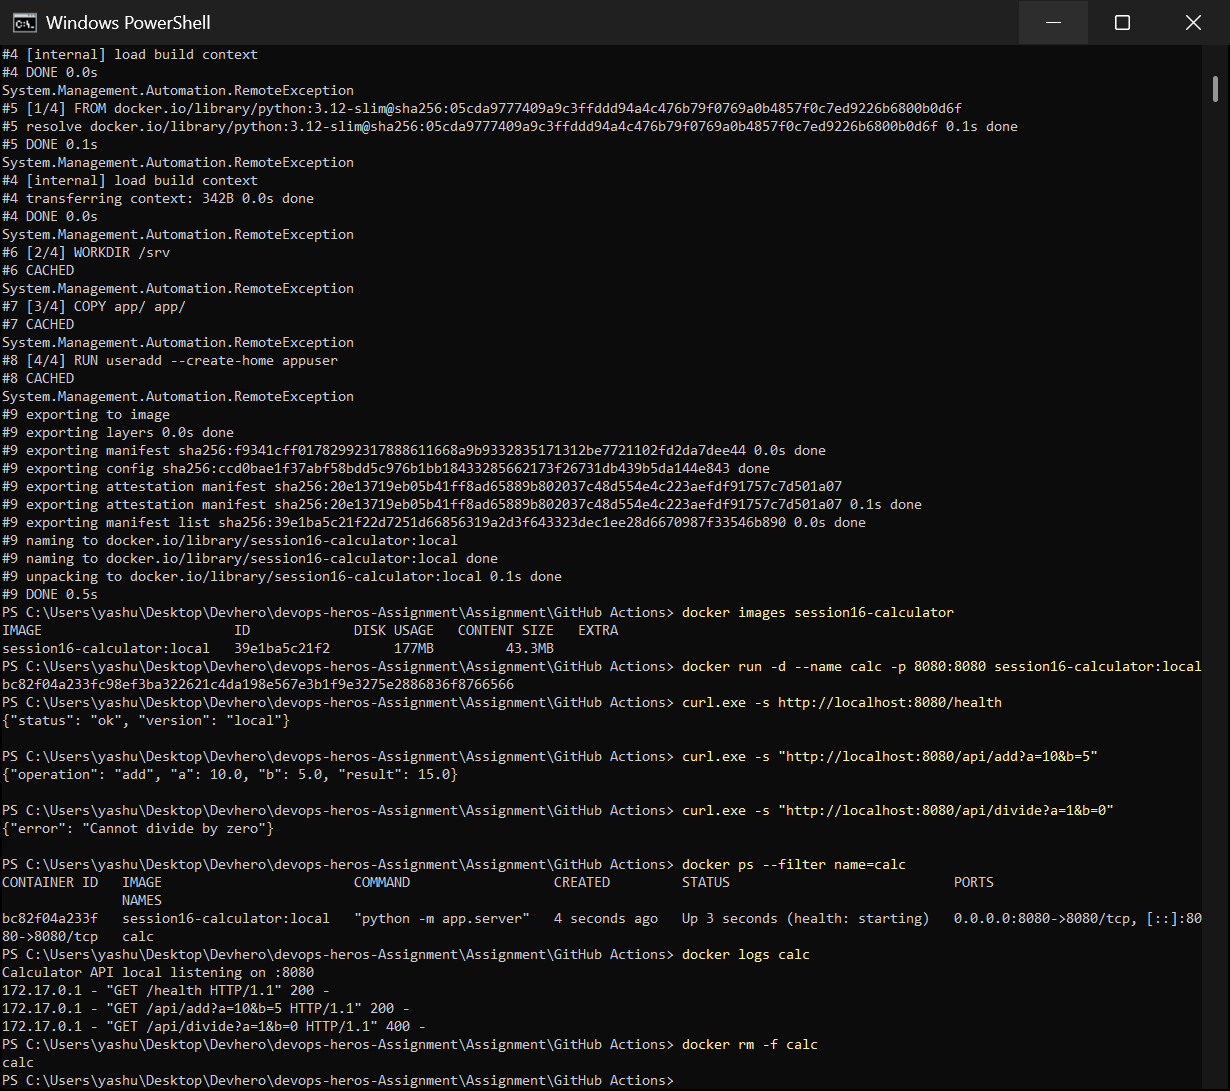
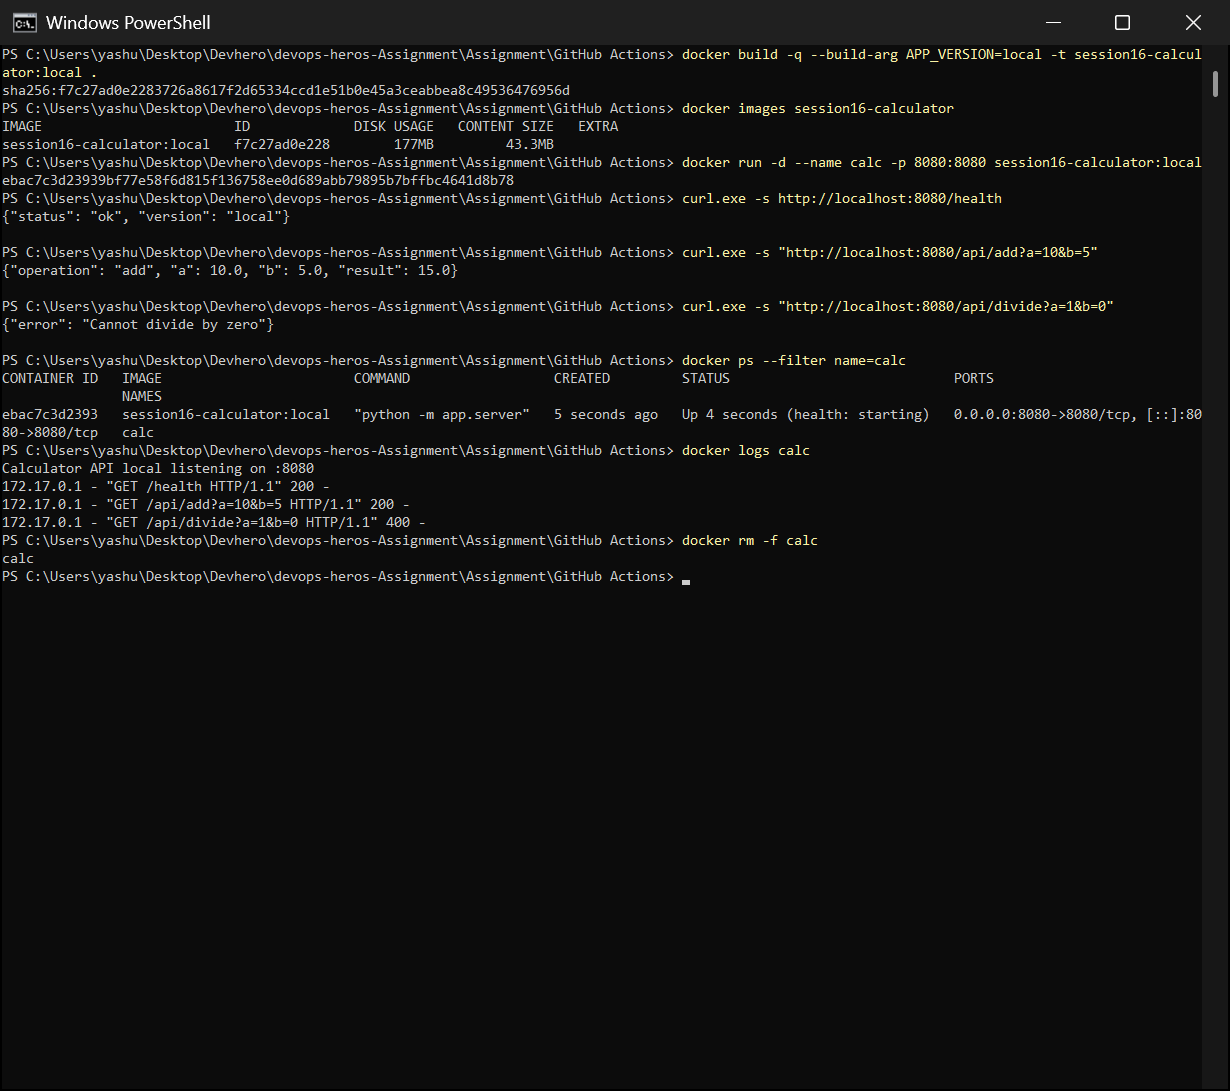
Session 16: add README and pipeline screenshots

diff --git a/Assignment/GitHub Actions/README.md b/Assignment/GitHub Actions/README.md
@@ -1,0 +1,196 @@
+# Session 16 – CI/CD with GitHub Actions
+
+A complete CI/CD demo project built on the course's [`10-final-cicd-pipeline`](../../session-16-github-actions/session-16-github-actions/10-final-cicd-pipeline). It's a small **Python calculator web API** that GitHub Actions automatically **tests, scans, builds, packages as a Docker image, pushes to a container registry, and deploys to Kubernetes** on every push.
+
+- **Workflow file:** [`.github/workflows/session16-cicd.yml`](../../.github/workflows/session16-cicd.yml)
+- **Successful run:** [Actions run #1](https://github.com/Yashukiran/devops-heros/actions/runs/37511470127). All 5 jobs green, total 2m 3s.
+- **Published image:** `ghcr.io/yashukiran/session16-calculator`
+
+---
+
+## Project Structure
+
+```text
+Assignment/GitHub Actions/
+├── app/
+│   ├── calculator.py     # add / subtract / multiply / divide
+│   └── server.py         # HTTP API: /health, /api/<op>?a=&b=   (standard library only)
+├── tests/
+│   ├── test_calculator.py   # unit tests
+│   └── test_server.py       # API tests (starts the server on a random port)
+├── k8s/
+│   ├── deployment.yaml   # 2 replicas, readiness/liveness probes, resource limits
+│   └── service.yaml
+├── Dockerfile            # python:3.12-slim, non-root user, HEALTHCHECK
+├── build.sh              # creates build/ + build-info.txt (the build artifact)
+├── requirements.txt      # pytest
+└── pytest.ini
+
+.github/workflows/session16-cicd.yml   # (at the repo root – GitHub only reads workflows from there)
+```
+
+### The application
+
+```bash
+GET /health                 -> {"status": "ok", "version": "<git sha>"}
+GET /api/add?a=10&b=5       -> {"operation": "add", "a": 10.0, "b": 5.0, "result": 15.0}
+GET /api/divide?a=1&b=0     -> 400 {"error": "Cannot divide by zero"}
+```
+
+---
+
+## CI vs CD
+
+| | **CI – Continuous Integration** | **CD – Continuous Delivery / Deployment** |
+|---|---|---|
+| Goal | Every change is automatically **built and tested** | Every change that passed CI is automatically **packaged and released/deployed** |
+| Answers | "Is this commit correct?" | "Can (and does) this commit run in an environment?" |
+| In this project | `test`, `security-check`, `build` jobs | `docker` (build + push image), `deploy` (to Kubernetes) jobs |
+
+*Continuous **Delivery** = always ready to deploy (maybe with a manual approval). Continuous **Deployment** = every green commit deploys automatically. This pipeline does automatic deployment to a `dev` environment.*
+
+---
+
+## The Pipeline
+
+```text
+                    push to "Assignment" (Assignment/GitHub Actions/**)
+                                       │
+               ┌───────────────────────┴───────────────────────┐
+               ▼                                               ▼
+        ┌──────────────┐                              ┌────────────────┐
+        │     test     │  pytest (9 tests)            │ security-check │  secret files? secrets usage
+        └──────┬───────┘                              └───────┬────────┘
+       ┌───────┴────────────────────┐                         │
+       ▼                            ▼                         │
+┌──────────────┐            ┌────────────────┐ ◄──────────────┘
+│    build     │ artifact   │     docker     │  build → smoke test → save artifact → push to GHCR
+└──────┬───────┘            └───────┬────────┘
+       └──────────┬─────────────────┘
+                  ▼
+          ┌───────────────┐
+          │    deploy     │  kind cluster → load image → kubectl apply → rollout → curl
+          └───────────────┘   (environment: dev)
+```
+
+| GitHub Actions concept | Where it is used here |
+|---|---|
+| **Workflow** | `session16-cicd.yml`. Triggers: `push` and `pull_request` to `Assignment` (only when this folder changes) plus manual `workflow_dispatch` |
+| **Jobs** | `test`, `security-check`, `build`, `docker`, `deploy`. Jobs run in parallel unless linked with `needs:` |
+| **Steps** | Each job's ordered list of `uses:` (a reusable action) or `run:` (shell commands) |
+| **Runners** | `runs-on: ubuntu-latest`, a fresh GitHub-hosted VM for every job (so every job checks out the code again) |
+| **Dependencies** | `build needs: test`, `docker needs: [test, security-check]`, `deploy needs: [docker, build]`. A failure stops everything downstream |
+| **Secrets** | `secrets.GITHUB_TOKEN` (automatic) logs in to GHCR. `secrets.APP_SECRET` (optional) shows how secrets are passed via `env:` and **masked** in logs |
+| **Permissions** | Least privilege: `contents: read` by default, `packages: write` only for the `docker` job |
+| **Artifacts** | `test-results` (JUnit XML), `calculator-build` (build output), `docker-image` (image tarball passed from `docker` to `deploy`) |
+| **Conditions** | `if: github.event_name != 'pull_request'`, so PRs are tested but never pushed or deployed |
+| **Environments** | `deploy` uses `environment: dev` (shows in the repo's *Deployments* and can have protection rules / approvals) |
+
+---
+
+## 1. Run it locally first
+
+![Local tests](screenshots/01-local-tests.png)
+
+The project structure, then `pytest -v`: **9 passed** (5 calculator unit tests + 4 API tests).
+
+![Local docker build and run](screenshots/02-local-docker-build-run.png)
+
+`docker build` → image `session16-calculator:local` (43 MB content). `docker run -p 8080:8080`, then `curl`:
+- `/health` → `{"status": "ok", "version": "local"}`
+- `/api/add?a=10&b=5` → `result 15.0`
+- `/api/divide?a=1&b=0` → `{"error": "Cannot divide by zero"}` (HTTP 400)
+- `docker ps` shows the container `(health: starting)` from the Dockerfile's `HEALTHCHECK`, and `docker logs` shows each request.
+
+## 2. Commit and push, which triggers the pipeline
+
+![git commit and push](screenshots/03-git-commit-push.png)
+
+`git add` the workflow plus the project, `git commit`, `git push origin Assignment`. The push matches the workflow's `on: push` + `paths:` filter, so GitHub starts the pipeline.
+
+## 3. Pipeline execution: all jobs successful
+
+![Pipeline run success](screenshots/04-pipeline-run-success.png)
+
+Run **#1**, triggered by the push of `e3a34c1`: **Status: Success, total duration 2m 3s, 3 artifacts**. The graph shows the dependency chain: `Test (10s)` and `Security Check (6s)` run in parallel, then `Build (7s)` and `Docker Build & Push (28s)`, then `Deploy to Kubernetes (1m 11s)`.
+
+### Test job
+
+![Test job – pytest](screenshots/05-job-test-pytest.png)
+
+On the GitHub runner: all 9 tests `PASSED`, *9 passed in 0.60s*. JUnit XML was generated and uploaded as the `test-results` artifact.
+
+### Build job
+
+![Build job](screenshots/06-job-build-artifact.png)
+
+`build.sh` produced `build/build-info.txt` with the **commit SHA and run number** filled in from GitHub's environment variables (`GITHUB_SHA`, `GITHUB_RUN_NUMBER`). The folder is uploaded as the `calculator-build` artifact.
+
+### Docker job: build, smoke test, push to GHCR
+
+![Docker push to GHCR](screenshots/07-job-docker-push-ghcr.png)
+
+The image is tagged with the short commit SHA (`e3a34c1`) and `latest`. It's started and **smoke-tested** with `curl` inside the runner, saved as an artifact, then **pushed to `ghcr.io/yashukiran/session16-calculator`** using the automatic `GITHUB_TOKEN`. No personal password is stored anywhere.
+
+### Deploy job (CD)
+
+![Deploy manifests](screenshots/08-job-deploy-kubernetes.png)
+
+A throwaway Kubernetes cluster is created with **kind** inside the runner, and the image from the `docker` job is loaded into it. Then `k8s/deployment.yaml` is applied with the image placeholder replaced by `ghcr.io/yashukiran/session16-calculator:e3a34c1`. `kubectl rollout status` → *successfully rolled out*, **2/2 pods Running**.
+
+![Deploy verify](screenshots/09-job-deploy-verify.png)
+
+Verification through the Service: `/health` returns `"version": "e3a34c1"`, which proves the **exact commit** is what's running. `/api/subtract?a=100&b=58` → `42.0`.
+
+### Security check
+
+![Security check](screenshots/10-job-security-check.png)
+
+Fails the pipeline if `.env`, `*.pem` or `*.key` files are committed (*No common sensitive files found*). It also shows how a secret is passed to a step through `env:`. GitHub automatically **masks** secret values as `***` in logs. (This is a basic classroom check. Session 17 adds real SAST/SCA/secret scanning tools.)
+
+---
+
+## Failure behaviour (why `needs:` matters)
+
+If a test fails, for example `def add(a, b): return a + b + 1`:
+
+```text
+✗ Test Application          → pytest fails, job exits 1
+⊘ Build Application         → skipped (needs: test)
+⊘ Docker Build & Push       → skipped (needs: test)
+⊘ Deploy to Kubernetes      → skipped
+✓ Security Check            → still runs (it doesn't depend on test)
+```
+
+Broken code never becomes an image and never reaches the cluster. That's the whole point of a CI gate. Fix the code, push again, and the full pipeline goes green.
+
+---
+
+## Secrets: how to use them correctly
+
+```yaml
+- name: Use a secret safely
+  env:
+    APP_SECRET: ${{ secrets.APP_SECRET }}   # Settings → Secrets and variables → Actions
+  run: echo "configured: $APP_SECRET"        # printed as *** in the log
+```
+
+- Never hard-code passwords or tokens in the workflow or the code. Store them in **repository/environment secrets**.
+- Prefer the built-in **`GITHUB_TOKEN`** (it expires automatically after the job) over personal access tokens.
+- Give jobs **minimum `permissions:`**. Only the `docker` job here can write packages.
+- Secrets are **not** passed to workflows triggered by pull requests from forks, so untrusted code can't steal them.
+
+---
+
+## What I Learned
+
+1. **CI** proves every commit builds and passes its tests. **CD** turns every green commit into a versioned artifact (a Docker image) and deploys it automatically.
+2. A **workflow** is YAML in `.github/workflows/` **at the repo root** (workflows inside sub-folders are ignored). `on:` with `branches` + `paths` controls exactly when it runs.
+3. **Jobs** run in parallel on separate fresh **runners**. **`needs:`** creates the order and acts as a **quality gate**: no test pass, no build, no image, no deployment.
+4. **Steps** combine reusable actions (`actions/checkout`, `setup-python`, `upload-artifact`, `helm/kind-action`) with plain shell `run:` commands.
+5. **Artifacts** are how jobs share files (each job has its own machine) and how build outputs and test reports are kept after the run.
+6. Tag images with the **commit SHA**, not just `latest`. Then the running version (`/health` → `e3a34c1`) can be traced back to the exact commit.
+7. **`GITHUB_TOKEN` + `permissions:`** give secure, short-lived registry access with least privilege, and secrets are masked in logs.
+8. A **smoke test** of the container inside CI catches "it builds but doesn't start" problems before deployment, and Kubernetes **readiness probes** make the rollout wait for healthy pods.
+9. You can test a real Kubernetes deployment in CI with **kind**, with no cloud cluster needed.
+10. Running everything **locally first** (pytest, docker build/run) makes pipeline failures much rarer and easier to debug.
